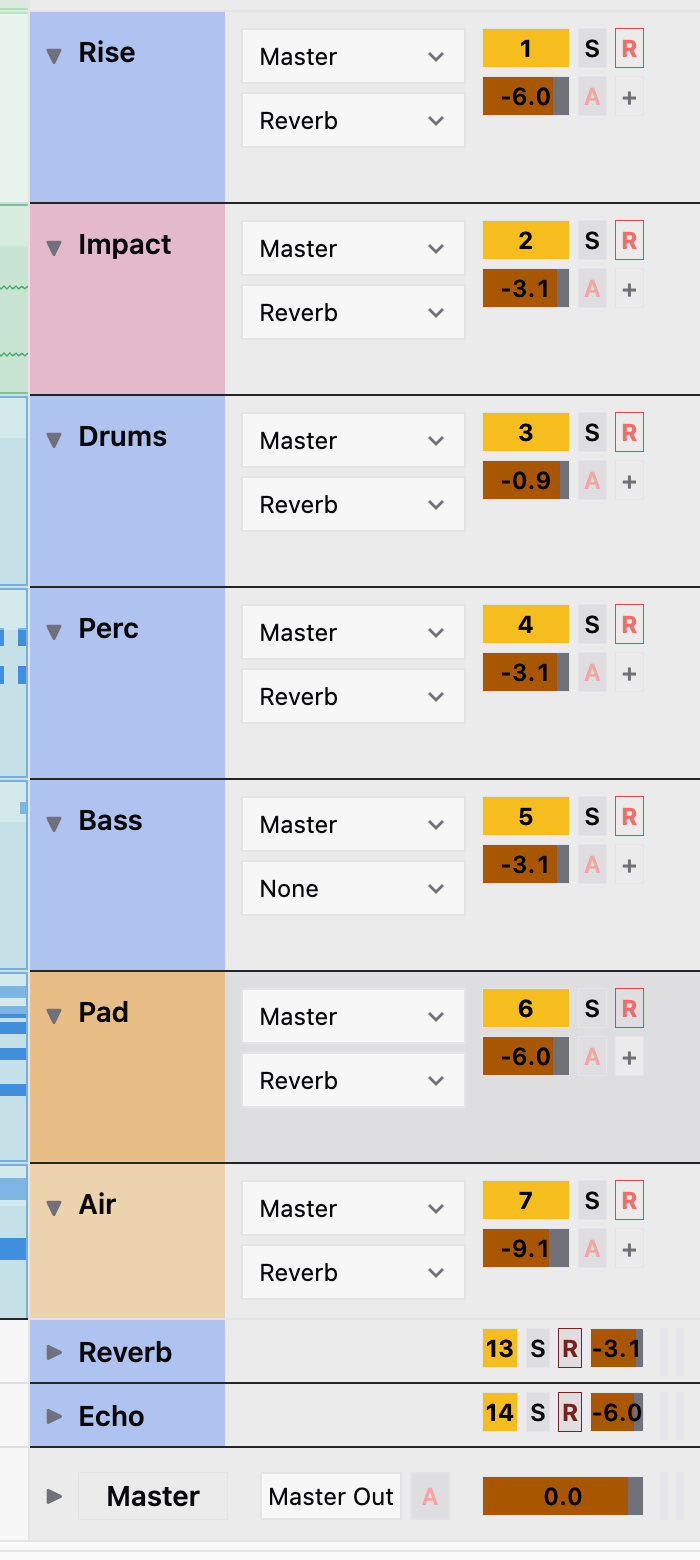
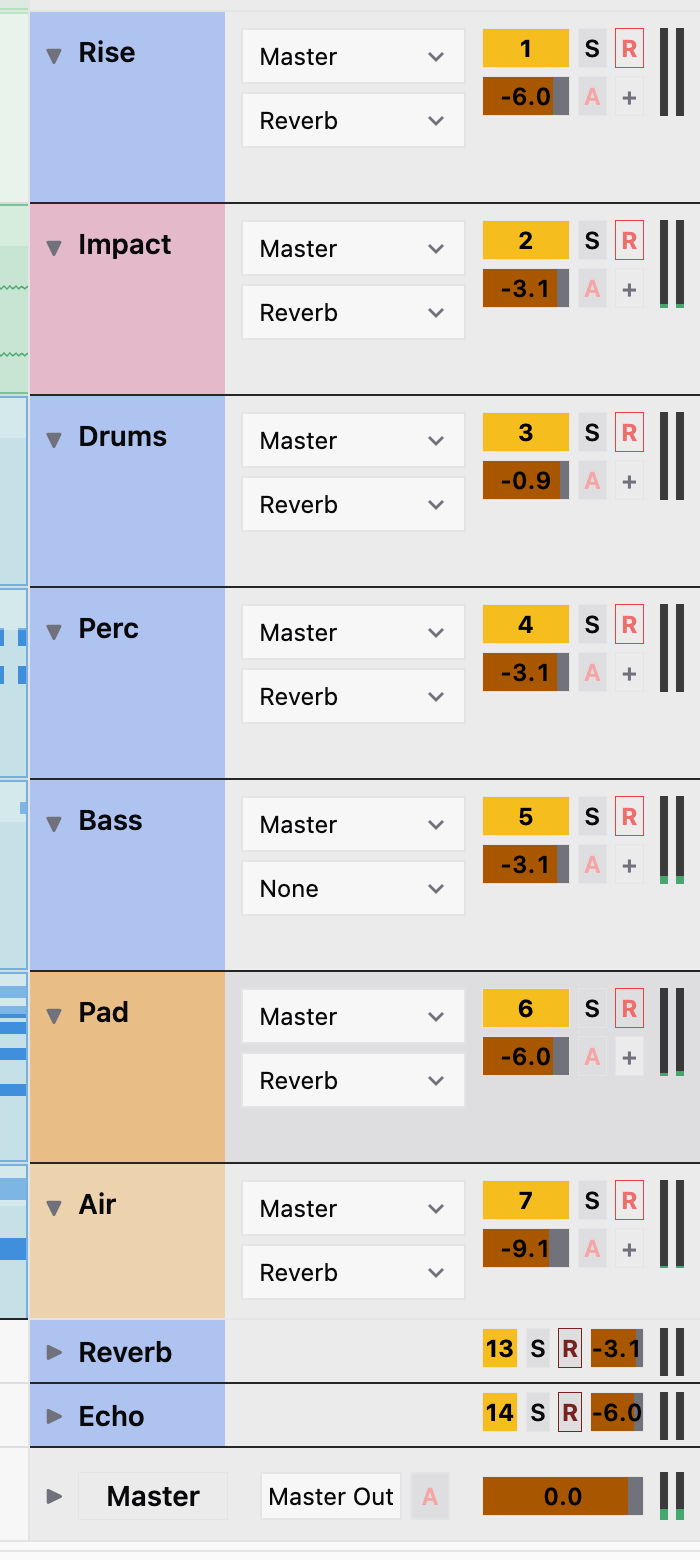
fix(timeline): track meters show in expanded headers and stand out on the neutral row
An expanded track's meter strip was h-full inside a flex row with no set
height, so it collapsed to 0 px and only collapsed tracks showed a meter;
it now stretches to the header. The meter trough was a faint border tint
that disappears on the neutral row; it is a dark trough now, and the level
uses the theme's meter-safe and meter-clipping colors.

diff --git a/src/components/timeline/TrackSidebarRow.tsx b/src/components/timeline/TrackSidebarRow.tsx
@@ -863,7 +863,7 @@ const TrackSidebarRow: Component<TrackSidebarRowProps> = (props) => {
           <div
             class={cn(
               "track-meter-strip relative shrink-0",
-              track.collapsed ? "h-6" : "h-full",
+              track.collapsed ? "h-6" : "self-stretch",
             )}
           >
             <div class="absolute inset-0 flex items-end justify-center gap-1">
@@ -871,12 +871,12 @@ const TrackSidebarRow: Component<TrackSidebarRowProps> = (props) => {
                 const meter = meters[track.id];
                 const left = displayMeterLevel(meter?.left);
                 const right = displayMeterLevel(meter?.right);
-                const leftColor = left >= 0.98 ? "bg-red-500" : "bg-green-500";
+                const leftColor = left >= 0.98 ? "bg-meter-clipping" : "bg-meter-safe";
                 const rightColor =
-                  right >= 0.98 ? "bg-red-500" : "bg-green-500";
+                  right >= 0.98 ? "bg-meter-clipping" : "bg-meter-safe";
                 return (
                   <>
-                    <div class="relative h-full w-1 overflow-hidden bg-border/60">
+                    <div class="relative h-full w-1 overflow-hidden bg-black/75">
                       <div
                         class={cn(
                           "absolute bottom-0 w-full transition-all duration-75",
@@ -885,7 +885,7 @@ const TrackSidebarRow: Component<TrackSidebarRowProps> = (props) => {
                         style={{ height: `${left * 100}%` }}
                       />
                     </div>
-                    <div class="relative h-full w-1 overflow-hidden bg-border/60">
+                    <div class="relative h-full w-1 overflow-hidden bg-black/75">
                       <div
                         class={cn(
                           "absolute bottom-0 w-full transition-all duration-75",

diff --git a/src/components/timeline/MasterSidebarRow.tsx b/src/components/timeline/MasterSidebarRow.tsx
@@ -310,20 +310,20 @@ const MasterSidebarRow: Component<MasterSidebarRowProps> = (props) => {
                 const right = Math.max(0, Math.min(1, props.levels.right));
                 return (
                   <>
-                    <div class="relative h-full w-1 overflow-hidden bg-border/60">
+                    <div class="relative h-full w-1 overflow-hidden bg-black/75">
                       <div
                         class={cn(
                           "absolute bottom-0 w-full transition-all duration-75",
-                          left >= 0.98 ? "bg-red-500" : "bg-green-500",
+                          left >= 0.98 ? "bg-meter-clipping" : "bg-meter-safe",
                         )}
                         style={{ height: `${left * 100}%` }}
                       />
                     </div>
-                    <div class="relative h-full w-1 overflow-hidden bg-border/60">
+                    <div class="relative h-full w-1 overflow-hidden bg-black/75">
                       <div
                         class={cn(
                           "absolute bottom-0 w-full transition-all duration-75",
-                          right >= 0.98 ? "bg-red-500" : "bg-green-500",
+                          right >= 0.98 ? "bg-meter-clipping" : "bg-meter-safe",
                         )}
                         style={{ height: `${right * 100}%` }}
                       />
